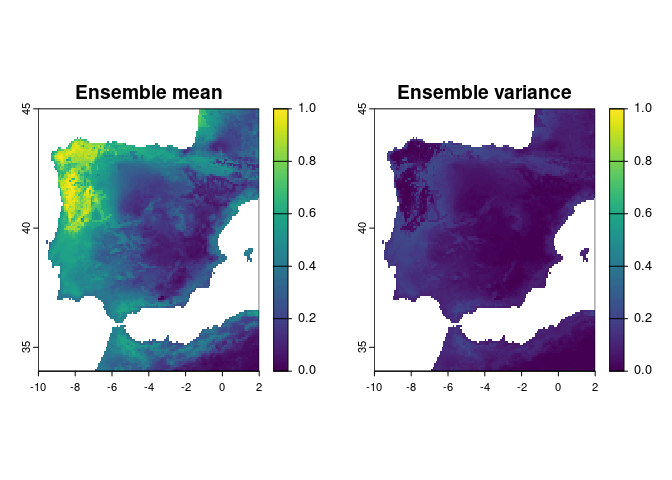
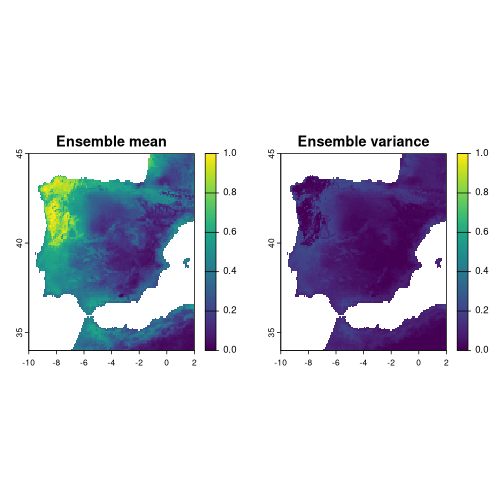
last version documentation update

Changed region(s): [[0.0298, 0.1562, 0.4762, 0.8125], [0.5357, 0.1562, 0.9821, 0.8125], [0.4167, 0.5312, 0.4762, 0.5625]]

diff --git a/README.md b/README.md
@@ -1,11 +1,14 @@
+---
+output: github_document
+---
 
 <!-- README.md is generated from README.Rmd. Please edit that file -->
 
+
+
 # proniche: PResence-Only NICHE modelling
 
-R package for computing niche models using a variety of **truly
-presence-only methods** (i.e., methods that use only environmental info
-from the presence sites, with no background or pseudo-absence data):
+R package for computing niche models using a variety of **truly presence-only methods** (i.e., methods that use only environmental info from the presence sites, with no background or pseudo-absence data):
 
 - Bioclim (rectangular environmental envelope)
 - Convex hull (in environmental space)
@@ -14,9 +17,11 @@ from the presence sites, with no background or pseudo-absence data):
 - Kernel density estimate
 - Multivariate normal distribution
 
+
 ## User guide
 
 ### (Install and) load package
+
 
 ``` r
 # devtools::install_github("https://github.com/ptarroso/proniche")
@@ -26,6 +31,7 @@ library(proniche)
 
 ### Import some example data
 
+
 ``` r
 tmp <- terra::rast(c("GIS/wc2.0_bio_5m_01.tif", "GIS/wc2.0_bio_5m_06.tif"))
 prc <- terra::rast(c("GIS/wc2.0_bio_5m_12.tif", "GIS/wc2.0_bio_5m_14.tif"))
@@ -33,7 +39,10 @@ vars <- c(tmp, prc)
 terra::plot(vars)
 ```
 
-<img src="man/figures/README-usage-1.png" width="100%" />
+<div class="figure">
+<img src="man/figures/README-usage-1.png" alt="plot of chunk usage" width="100%" />
+<p class="caption">plot of chunk usage</p>
+</div>
 
 ``` r
 
@@ -44,18 +53,28 @@ terra::plot(vars[[1]] * 0, col = "tan", background = "lightblue",
 points(chilus, pch = 20, cex = 0.2)
 ```
 
-<img src="man/figures/README-usage-2.png" width="100%" />
+<div class="figure">
+<img src="man/figures/README-usage-2.png" alt="plot of chunk usage" width="100%" />
+<p class="caption">plot of chunk usage</p>
+</div>
 
 ### Plot frequency distributions
+
 
 ``` r
 par(mfrow = c(2, 2), mar = c(2, 2, 2, 1))
 freqPlot(vals, vars)
 ```
 
-<img src="man/figures/README-freqPlot-1.png" width="100%" />
+<div class="figure">
+<img src="man/figures/README-freqPlot-1.png" alt="plot of chunk freqPlot" width="100%" />
+<p class="caption">plot of chunk freqPlot</p>
+</div>
 
-### Build models
+
+
+### Fit models
+
 
 ``` r
 bc_fit <- promodel(vals, method = "bioclim")
@@ -66,12 +85,11 @@ km_fit <- promodel(vals, method = "kernel")
 mv_fit <- promodel(vals, method = "mvnormal")
 ```
 
-<img src="man/figures/README-buildmodel-1.png" width="100%" />
+### Check built models
 
-### Check models
 ``` r
 par(mfrow = c(2, 3))
-plot(bc_fit, main="Bioclim")
+plot(bc_fit, main = "Bioclim")
 plot(ch_fit, main="Convex Hull")
 plot(dm_fit, main="Domain")
 plot(mm_fit, main="Mahalanobis")
@@ -79,9 +97,14 @@ plot(km_fit, main="Kernel")
 plot(mv_fit, main="Multivariate Normal")
 ```
 
-<img src="man/figures/README-plotmodel-1.png" width="100%" />
+<div class="figure">
+<img src="man/figures/README-checkmodel-1.png" alt="plot of chunk checkmodel" width="100%" />
+<p class="caption">plot of chunk checkmodel</p>
+</div>
 
-### Predict models
+### Predict with models
+
+
 ``` r
 bc <- predict(bc_fit, vars)
 ch <- predict(ch_fit, vars)
@@ -91,20 +114,22 @@ km <- predict(km_fit, vars)
 mv <- predict(mv_fit, vars)
 
 par(mfrow = c(2, 3))
-terra::plot(bc[[1]], type = "continuous", main="Bioclim")
-terra::plot(ch[[1]], type = "continuous", main="Convex Hull")
-terra::plot(dm[[1]], type = "continuous", main="Domain")
-terra::plot(mm[[1]], type = "continuous", main="Mahalanobis")
-terra::plot(km[[1]], type = "continuous", main="Kernel")
-terra::plot(mv[[1]], type = "continuous", main="Multivariate Normal")
+terra::plot(bc, type = "continuous", main="Bioclim")
+terra::plot(ch, type = "continuous", main="Convex Hull")
+terra::plot(dm, type = "continuous", main="Domain")
+terra::plot(mm, type = "continuous", main="Mahalanobis")
+terra::plot(km, type = "continuous", main="Kernel")
+terra::plot(mv, type = "continuous", main="Multivariate Normal")
 ```
 
-<img src="man/figures/README-predictmodel-1.png" width="100%" />
-
-
+<div class="figure">
+<img src="man/figures/README-predictmodel-1.png" alt="plot of chunk predictmodel" width="100%" />
+<p class="caption">plot of chunk predictmodel</p>
+</div>
 
 
 ### Reclassify predictions into comparable scale
+
 
 ``` r
 bc_rcl <- quantReclass(bc[[1]])
@@ -123,9 +148,13 @@ terra::plot(km_rcl, range = c(0, 1), type = "continuous", main="Kernel")
 terra::plot(mv_rcl, range = c(0, 1), type = "continuous", main="Multivariate Normal")
 ```
 
-<img src="man/figures/README-reclass-1.png" width="100%" />
+<div class="figure">
+<img src="man/figures/README-reclass-1.png" alt="plot of chunk reclass" width="100%" />
+<p class="caption">plot of chunk reclass</p>
+</div>
 
 ### Ensemble predictions
+
 
 ``` r
 preds <- c(bc_rcl, ch_rcl, dm_rcl, mm_rcl, km_rcl, mv_rcl)
@@ -136,26 +165,21 @@ terra::plot(ens_mean, range = c(0, 1), main = "Ensemble mean")
 terra::plot(ens_var, range = c(0, 1), main = "Ensemble variance")
 ```
 
-<img src="man/figures/README-ensemble-1.png" width="100%" />
+<div class="figure">
+<img src="man/figures/README-ensemble-1.png" alt="plot of chunk ensemble" width="100%" />
+<p class="caption">plot of chunk ensemble</p>
+</div>
+
 
 ## TO DO
 
 - ~~Add multivariate normal distribution~~
-
 - ~~Maybe add resampling to Mahalanobis (needs to estimate covariance)~~
-
 - ~~Create an R package~~
-
 - ~~Add documentation and references to original model publications~~
-
-- ~~Maybe some accessory functions to clean data set? (Remove
-  duplicates, NAs, etc)~~
-
-- ~~Instead of receiving coordinates as input, perhaps modelling
-  functions should get already the environmental values at presences?~~
-
-- ~~Function to plot models representation in environmental space?~~
+- ~~Maybe some accessory functions to clean data set? (Remove duplicates, NAs, etc)~~
+- ~~Instead of receiving coordinates as input, perhaps modelling functions should get already the environmental values at presences?~~
+- Function to plot models representation in environmental space?
 
 - ~~Implement for data frames (not just SpatRasters)~~
-
 - ~~Add function to reclassify predictions into comparable scale~~
